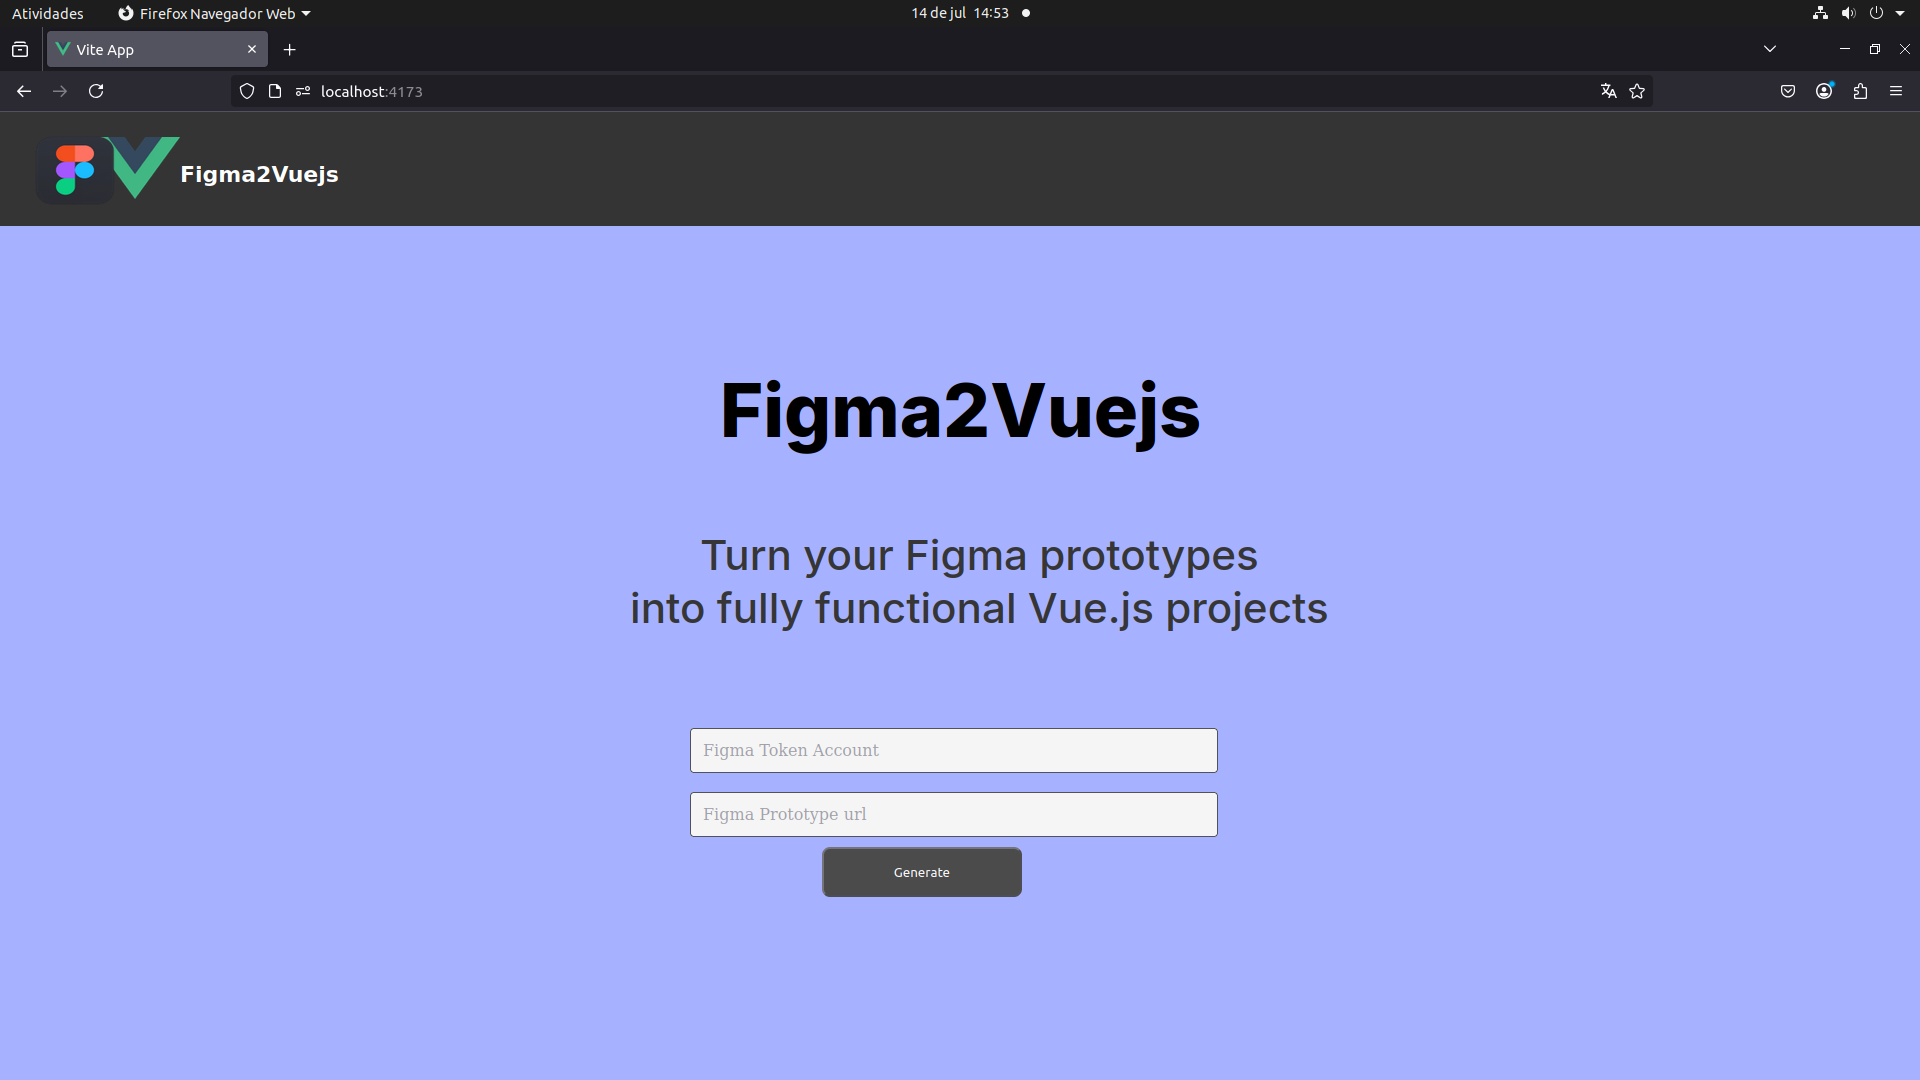
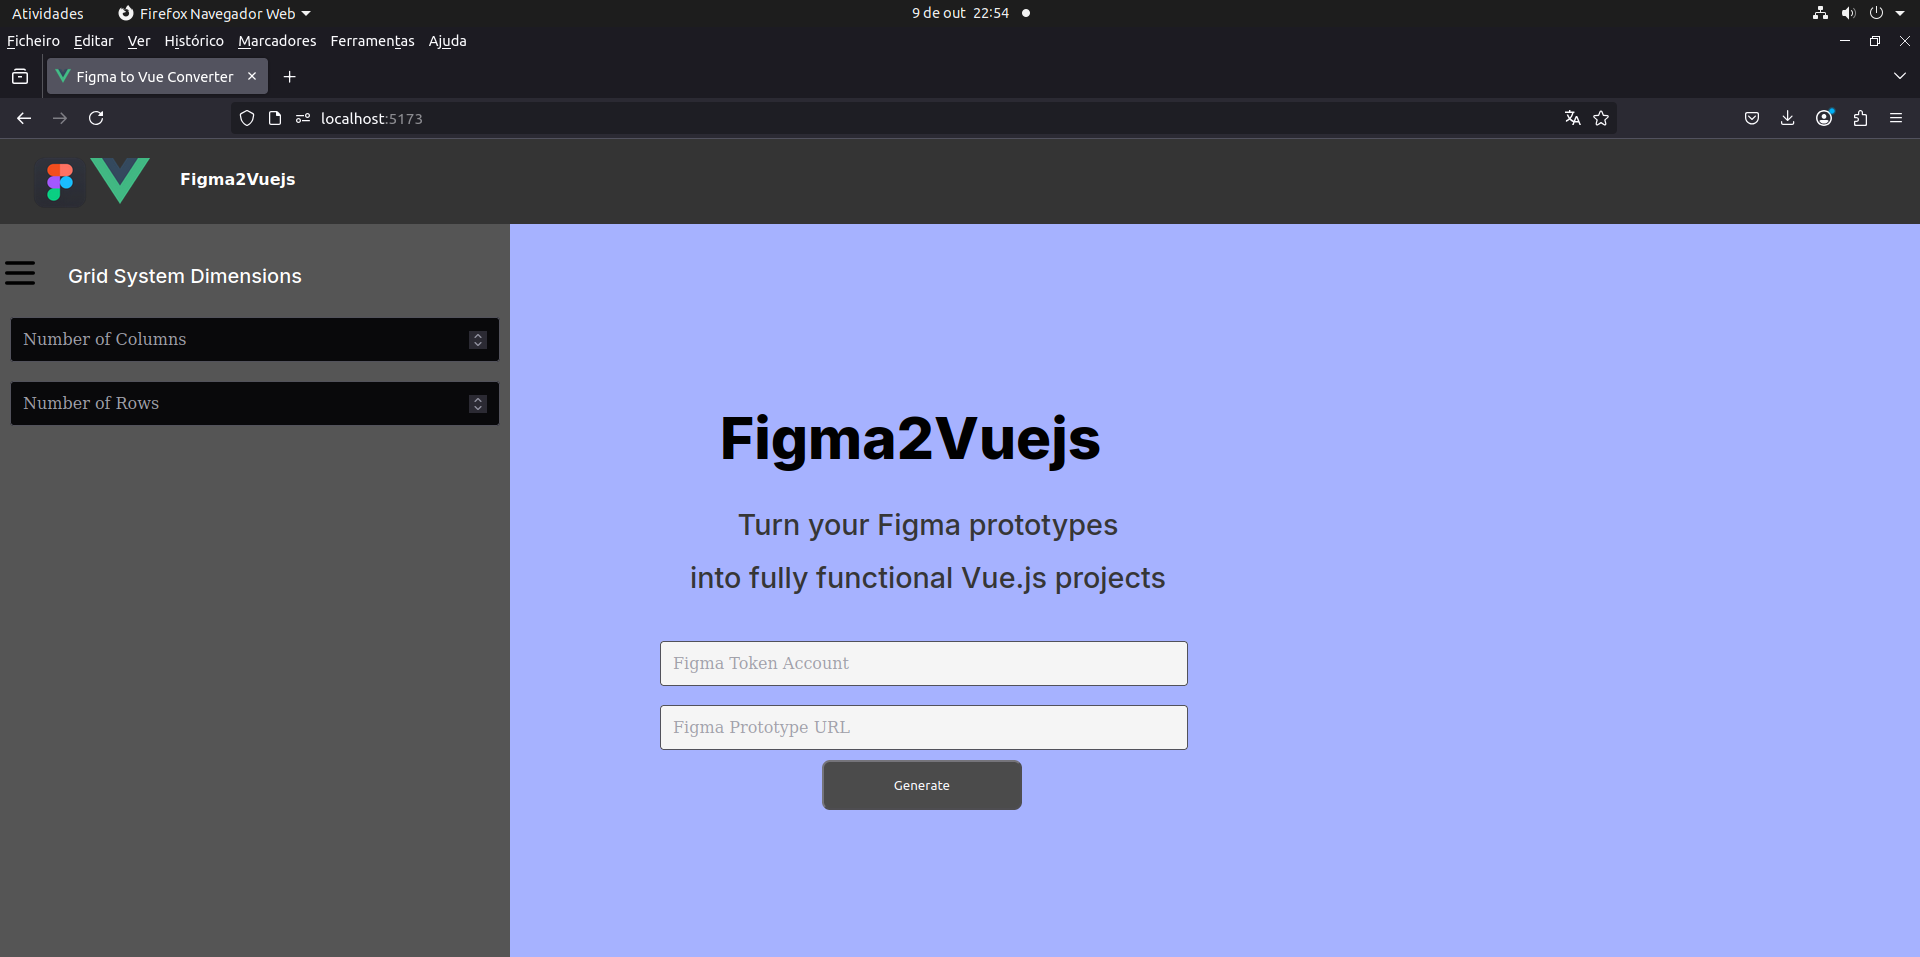
tweaks on tool GUI

diff --git a/figma2vuejs/src/views/HomePageView.vue b/figma2vuejs/src/views/HomePageView.vue
@@ -9,8 +9,8 @@
   Figma2Vuejs
  </p>
  <div v-if="showprogressbar" class="progressbarcard">
-    <p class="progresstxt">{{progressMsg}}</p>
-    <ProgressBar class="progressbar" :value="progress" />
+    <p class="progresstxt">{{progressMsg}}...{{ progress }}%</p>
+    <ProgressBar class="progressbar" v-model="progress" :value="progress" ></ProgressBar>
  </div>
 
  <div class="form316457">
@@ -25,7 +25,7 @@
    </div>
    <br/>
    <div class="inputform316457">
-    <InputText  fluid  name="input2316457" placeholder="Figma Prototype url" type="text">
+    <InputText  fluid  name="input2316457" placeholder="Figma Prototype URL" type="text">
     </InputText>
     <Message severity="error" size="small" v-if="$form316457.input2316457?.invalid" variant="simple">
      {{$form316457.input2316457?.error.message}}
@@ -37,7 +37,42 @@
    <br>
   <a v-show="showlink" ref="downloadLink" :href="fileUrl" :download="fileName">Download File</a>
   </Form>
+  
  </div>
+ <img src="/burger-menu.svg" @click="isExpanded=!isExpanded"  width="40px" class="menuburger"/>
+    <aside v-show="isExpanded">
+ 
+ <div class="gridformoption">
+    
+    <p class="gridformoptiona">Grid System Dimensions</p>
+    
+        <div class="gridform">
+  <Form :initialValues="initialGridValues"  :resolver="resolverGridValues" :validateOnBlur="true" v-slot="$gridform">
+   <br/>
+   <div class="inputGridValuesColumns">
+    <InputText v-model="nr_columns" fluid  name="inputColumns" placeholder="Number of Columns" min=1 type="number">
+    </InputText>
+    <Message severity="error" size="small" v-if="$gridform.inputColumns?.invalid" variant="simple">
+     {{$gridform.inputColumns?.error.message}}
+    </Message>
+   </div>
+   <br/>
+   <div class="inputGridValuesRows">
+    <InputText  v-model="nr_rows" fluid  name="inputRows" placeholder="Number of Rows"  min=1 type="number">
+    </InputText>
+    <Message severity="error" size="small" v-if="$gridform.inputRows?.invalid" variant="simple">
+     {{$gridform.inputRows?.error.message}}
+    </Message>
+   </div>
+   <br>
+  </Form>
+  
+ </div>
+</div>       
+    </aside> 
+
+
+
  <Navigationbar class="grid-item-316718 component316718"></Navigationbar>
 </div>
 
@@ -47,7 +82,7 @@
 import axios from 'axios';
 import Navigationbar from '@/components/Navigationbar.vue';
 import { useToastStore } from "@/stores/toast";;
-import { ref } from "vue";
+import { ref, onMounted  } from "vue";
 
 const fileUrl = ref(null)
 const fileName = ref('')
@@ -59,15 +94,24 @@ export default {
         return {
             showlink:false,
             showprogressbar:false,
-            progress:10,
-            progressMsg:'Generating Vue project...'
+            progressMsg:'Generating Vue project...',
+            progress:0,
+            nr_rows:'',
+            nr_columns:'',
+            progress:0,
+            isExpanded:false
         }
     },
-            setup(){
+    setup(){
 
         const initialValues316457 = ref({
            input1316457: '',
            input2316457: '',
+        });
+
+        const initialGridValues = ref({
+            inputColumns: '',
+            inputRows: '',
         });
     
         const resolver316457 = ({ values }) => {
@@ -91,10 +135,26 @@ export default {
             };
         };
     
+        const resolverGridValues = ({ values }) => {
+            const errors = {};
+           
+            if(values.inputColumns!="" && values.inputRows==""){
+                errors.inputColumns = [{ message: 'Your missing some grid values.'}];
+            }
+         
+            if(values.inputRows!="" && values.inputColumns=="") {
+                errors.inputRows = [{ message: 'Your missing some grid values.'}];
+            }
+            return {
+                errors
+            };
+        };
 
         return {
             initialValues316457,
+            initialGridValues,
             resolver316457,
+            resolverGridValues
           }
 	},methods:{
     async onFormSubmit316457(data) {
@@ -115,16 +175,31 @@ export default {
                 const result = await axios.post('http://localhost:8000/',
             {
                 'apikey':data.states.input1316457.value,
-                'filekey':filekey
-            }
+                'filekey':filekey,
+                'nrRows':this.nr_rows,
+                'nrColumns':this.nr_columns,
+            },
+            {
+                    responseType: 'blob',
+                    onDownloadProgress: function(progressEvent){
+                        let percentageComplete = Math.floor((progressEvent.loaded/progressEvent.total)*100)
+                        //console.log(percentageComplete+"%")
+                        self.progress = percentageComplete
+                    }
+                }
                 )
-                this.progress = 60
-                this.progressMsg = "Vue project generated. Compressing and sending..."
                 const filename = result.data
+                const self = this
+                this.progressMsg = "Getting Vue zip file from project..."
+                this.progress = 0
                 const resp = await axios.get(`http://localhost:8000/download?path=${filename}`, {
-                    responseType: 'blob'
+                    responseType: 'blob',
+                    onDownloadProgress: function(progressEvent){
+                        let percentageComplete = Math.floor((progressEvent.loaded/progressEvent.total)*100)
+                        //console.log(percentageComplete+"%")
+                        self.progress = percentageComplete
+                    }
                 });
-                this.progress = 80
                 const blob = new Blob([resp.data], { type: 'application/zip' });
                 fileUrl.value = URL.createObjectURL(blob);
                 fileName.value = filename + ".zip";
@@ -133,7 +208,6 @@ export default {
                 link.href = fileUrl.value
                 link.download = fileName.value
                 link.click();
-                this.progress = 100
                 setTimeout(() => {
                     URL.revokeObjectURL(fileUrl.value);
                 }, 1000);
@@ -144,7 +218,7 @@ export default {
                 console.log(err)
             }        
             if(data.valid==false){
-                message = "Error in form submission!"            
+                message = "Error while downloading the Vue project generated!"            
                 toastStore.showError(message);
             }
         }

diff --git a/figma2vuejs/src/assets/homepage.css b/figma2vuejs/src/assets/homepage.css
@@ -27,14 +27,14 @@
 .text31635 {
 	font-style: Medium;
 	font-weight: 500;
-	font-size: 2.1967049425861207vw;
+	font-size: 1.4967049425861207vw;
 	font-family: Inter;
 	text-align: center;
 	line-height: 53px;
 	color: rgba(54.43268336355686,54.43268336355686,54.43268336355686,1.0);
-	grid-column-start: 22;
+	grid-column-start: 24;
 	grid-column-end: 46;
-	grid-row-start: 16;
+	grid-row-start: 12;
 	grid-row-end: 19;
 	display: flex;
 	overflow-wrap: break-word;
@@ -48,7 +48,7 @@
 .text31637 {
 	font-style: Extra Bold;
 	font-weight: 800;
-	font-size: 3.844233649525711vw;
+	font-size: 3.044233649525711vw;
 	font-family: Inter;
 	text-align: center;
 	line-height: 93px;
@@ -67,12 +67,54 @@
 
 
 .form316457 {
-	grid-column-start: 24;
+	grid-column-start: 23;
 	grid-column-end: 51;
-	grid-row-start: 22;
+	grid-row-start: 18;
 	grid-row-end: 50;
   }
- 
+.gridformoption{
+	grid-column-start: 50;
+	grid-column-end: 62;
+
+	grid-row-start: 7;
+	grid-row-end: 10;
+	
+}
+
+.menuburger{
+	grid-column-start: 1;
+	grid-column-end: 11;
+	grid-row-start: 5;
+	grid-row-end: 8;
+	z-index: 10;
+
+}
+.gridformoptiona{
+
+	font-style: Medium;
+	font-weight: 500;
+	font-family: Inter;
+	text-align: center;
+	color: white;
+	font-size: 20px;
+	padding: 10px;
+	width: 350px;
+	margin-top: 20px;
+}
+aside{  
+	grid-column-start: 1;
+	grid-column-end: 18;
+	background-color: #555;
+	grid-row-start: 4;
+	grid-row-end: 129;
+	padding: 10px;
+}
+.gridform {	
+	grid-column-start: 50;
+	grid-column-end: 62;	grid-row-start: 7;
+	grid-row-end: 10;
+
+  }
   .submitbtnform316457 {
     background-color: rgba(75.02882078289986,75.02882078289986,75.02882078289986,1.0);
     border-radius: 8px;
@@ -80,7 +122,7 @@
     height:50px;
     margin-top: 10px;
     position: relative;
-    left:  131.9230769230769px;
+    left:  161.9230769230769px;
   }
 .inputform316457 .p-inputtext{ 
   --p-inputtext-background:rgba(245.00000059604645,245.00000059604645,245.00000059604645,1.0);

diff --git a/figma2vuejs/src/assets/navigationbar.css b/figma2vuejs/src/assets/navigationbar.css
@@ -7,7 +7,7 @@
   grid-column-start:1;
   grid-column-end:65;
   grid-row-start:1;
-  grid-row-end:5;
+  grid-row-end:4;
   margin:0;
   padding:0;
   background-color:rgba(52.471137419342995,52.26931504905224,52.26931504905224,1.0);
@@ -21,19 +21,17 @@
   width: 100%;
   height: 100%;
 }
-  
 .text31636 {
 	font-style:normal;
-	font-weight: 400;
-	font-weight:600;
-	font-size: 22px;
+	font-weight: 600;
+	font-size: 16px;
 	font-family:'Lucida Sans', 'Lucida Sans Regular', 'Lucida Grande', 'Lucida Sans Unicode', Geneva, Verdana, sans-serif;
 	text-align: left;
 	line-height: 40px;
 	color: rgba(255.0,255.0,255.0,1.0);
 	grid-column-start: 7;
-	grid-column-end: 24;
-	grid-row-start: 25;
+	grid-column-end: 20;
+	grid-row-start: 16;
 	grid-row-end: 40;
 	display: flex;
 	overflow-wrap: break-word;
@@ -45,14 +43,14 @@
 
 .container31633 {
 	grid-column-start: 4;
-	grid-column-end: 7;
+	grid-column-end: 6;
 	grid-row-start: 15;
 	grid-row-end: 50;
 }
 
 .container31634 {
 	grid-column-start: 2;
-	grid-column-end: 5;
+	grid-column-end: 4;
 	grid-row-start: 12;
 	grid-row-end: 56;
 }

diff --git a/figma2vuejs/index.html b/figma2vuejs/index.html
@@ -4,7 +4,7 @@
     <meta charset="UTF-8">
     <link rel="icon" href="/favicon.ico">
     <meta name="viewport" content="width=device-width, initial-scale=1.0">
-    <title>Vite App</title>
+    <title>Figma to Vue Converter</title>
   </head>
   <body>
     <div id="app"></div>

diff --git a/server/src/figma2vuejs.py b/server/src/figma2vuejs.py
@@ -25,15 +25,18 @@ FIGMA_API_KEY = ""
 FILE_KEY = ""
 headers = {}
 project_name = ""
-
+nr_rows=None
+nr_columns=None
 
 prototype = None
 data = None
 
-def set_variables(filekey,token):
-  global FIGMA_API_KEY, FILE_KEY, headers
+def set_variables(filekey,token,rows,columns):
+  global FIGMA_API_KEY, FILE_KEY,nr_rows,nr_columns, headers
   FIGMA_API_KEY = token
   FILE_KEY = filekey
+  nr_rows = rows
+  nr_columns = columns
   headers = {"content-type": "application/json", "Accept-Charset": "UTF-8", 'X-FIGMA-TOKEN': FIGMA_API_KEY}
 
 def load_variables():
@@ -83,7 +86,7 @@ def convert_prototype(testfile=None):
                        "pageElements":allpages[page].elements}
 
   mypages = allpages
-  if(len(sys.argv)==4): mypages = generateGridTemplate(allpages,sys.argv[2],sys.argv[3])
+  if(nr_rows!=None and nr_columns!=None): mypages = generateGridTemplate(allpages,nr_rows,nr_columns)
   if(mypages!=None):
     allcomponents=[]
     for page in pagesInfo:
@@ -141,12 +144,14 @@ app.add_middleware(
 class UserInfo(BaseModel):
   apikey: Optional[str] = None
   filekey: Optional[str] = None
+  nrRows: Optional[str] = None
+  nrColumns: Optional[str] = None
 
 @app.post("/")
 async def convert_figma2vue(userinfo: UserInfo = None):
   global FIGMA_API_KEY, FILE_KEY, project_name
   if(userinfo != None and userinfo.apikey!=None and userinfo.filekey!=None):
-    set_variables(userinfo.filekey,userinfo.apikey)
+    set_variables(userinfo.filekey,userinfo.apikey,userinfo.nrRows,userinfo.nrColumns)
   if(FIGMA_API_KEY=="" and FILE_KEY==""):
     return "Missing token and prototype url!"
   else:
@@ -163,7 +168,7 @@ async def convert_figma2vue(userinfo: UserInfo = None):
 async def convert_figma2vue(userinfo: UserInfo = None):
   global FIGMA_API_KEY, FILE_KEY, project_name
   if(userinfo != None and userinfo.apikey!=None and userinfo.filekey!=None):
-    set_variables(userinfo.filekey,userinfo.apikey)
+    set_variables(userinfo.filekey,userinfo.apikey,userinfo.nrRows,userinfo.nrColumns)
   if(FIGMA_API_KEY=="" and FILE_KEY==""):
     return "Missing token and prototype url!"
   else:
@@ -175,7 +180,7 @@ async def convert_figma2vue(userinfo: UserInfo = None):
 def convert_figma2vue(nr:int,userinfo: UserInfo = None):
   global FIGMA_API_KEY, FILE_KEY
   if(userinfo != None and userinfo.apikey!=None and userinfo.filekey!=None):
-    set_variables(userinfo.filekey,userinfo.apikey)
+    set_variables(userinfo.filekey,userinfo.apikey,userinfo.nrRows,userinfo.nrColumns)
   if(FIGMA_API_KEY=="" and FILE_KEY==""):
     return "Missing token and prototype url!"
   else:
